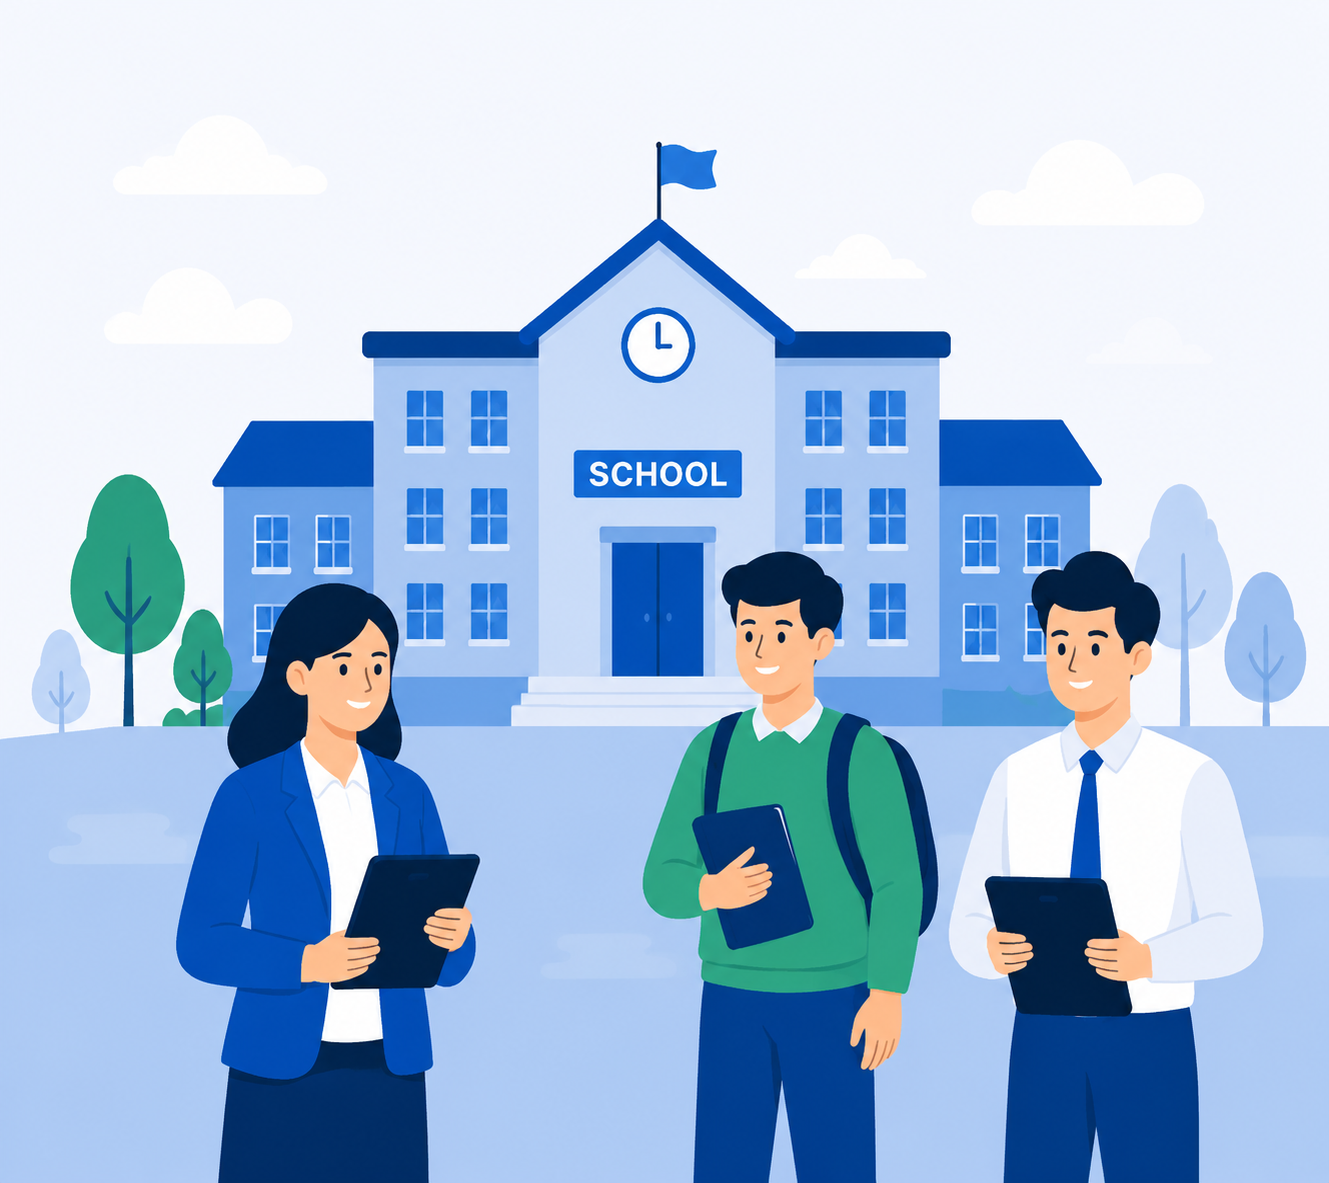
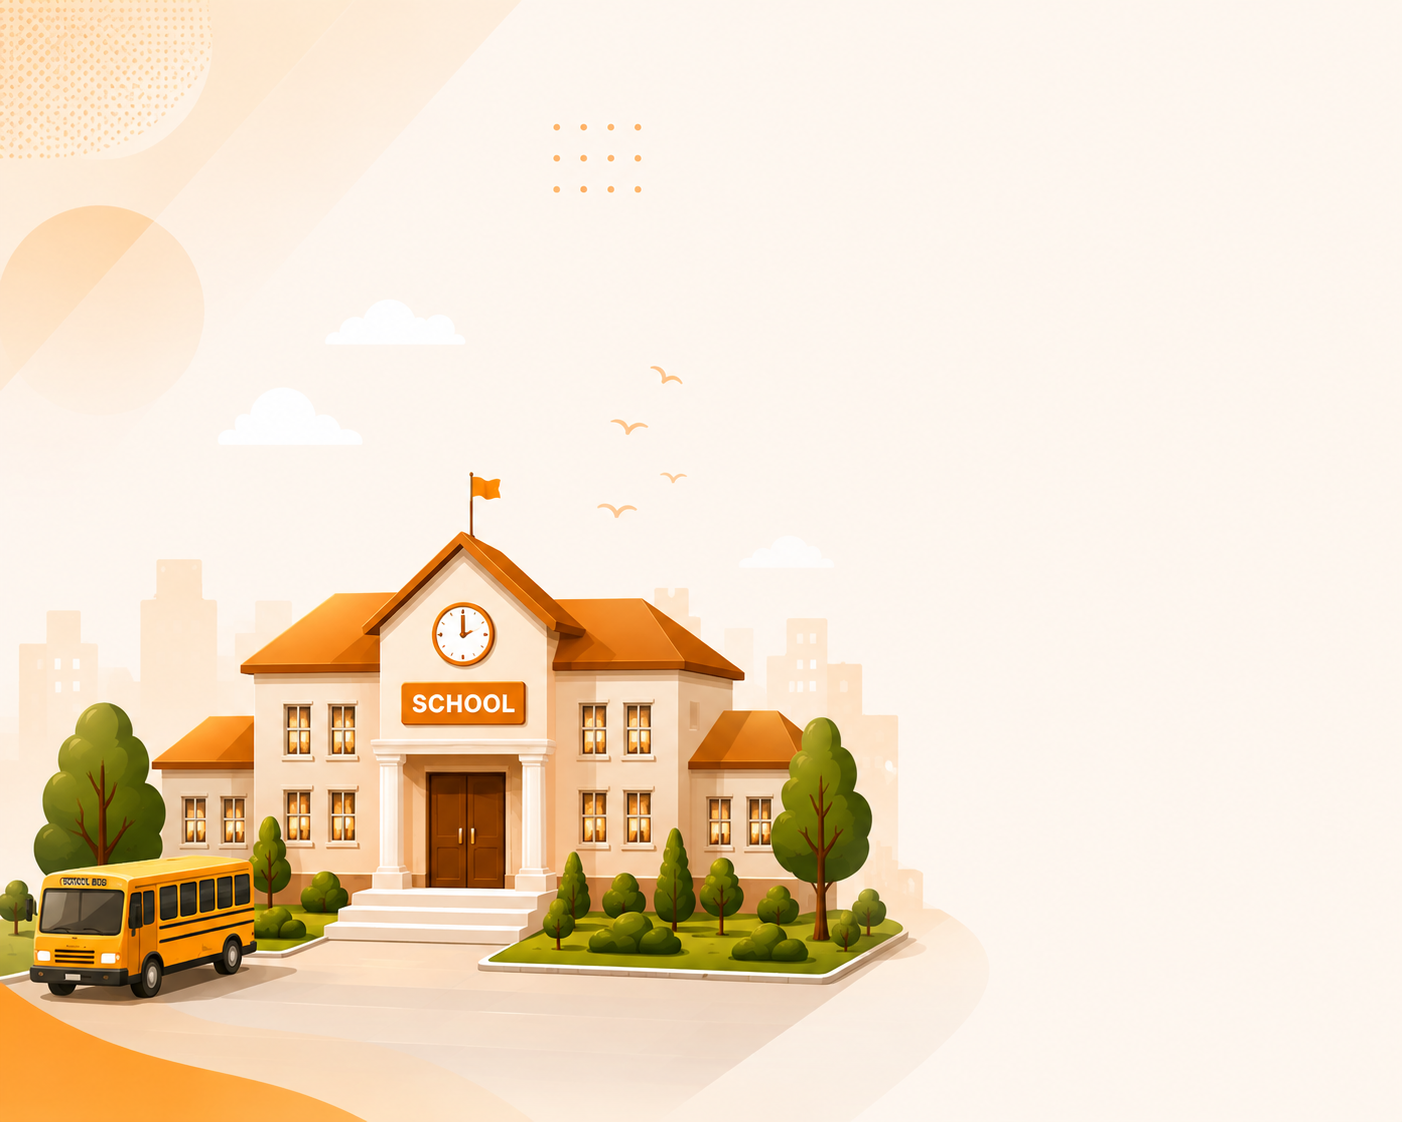
Made login page fully responsive

diff --git a/frontend/src/pages/auth/Login.jsx b/frontend/src/pages/auth/Login.jsx
@@ -44,88 +44,100 @@ export default function Login() {
   };
 
   return (
-    <div className=" h-screen w-full flex">
+    <div className=" h-screen w-full flex  justify-center">
       <LeftSide />
-
-      <div className="w-[70%] p-5 flex flex-col items-center">
-        <div className="bg-blue-50 w-12 h-12 flex items-center justify-center rounded">
-          <i className="fa-solid fa-lock text-2xl text-blue-600"></i>
+      <div className="w-[85%] h-screen p-8 flex flex-col items-center sm:w-full sm:h-screen sm:justify-center ">
+        <div className="bg-amber-100 w-12 h-12 flex items-center justify-center rounded p-3 border border-amber-300 sm:block  sm:items-center sm:justify-center">
+          <i className="fa-solid fa-lock text-2xl text-amber-600"></i>
         </div>
         <div className="flex flex-col items-center ">
-          <h1 className="text-2xl font-bold mt-2">Welcome Back!</h1>
-          <p className="text-gray-800"> Log in to your account to continue</p>
+          <h1 className="text-3xl font-bold mt-2">Welcome Back!</h1>
+          <p className="text-gray-800 text-xl mt-2">
+            {" "}
+            Log in to your account to continue
+          </p>
         </div>
 
-        <form className="w-[90%] h-full " onSubmit={formSubmit}>
-          <div className="flex flex-col items-center gap-4 mt-3">
-            <p className="font-semibold">Select Your Role</p>
-            <div className="flex gap-5">
+        <form
+          className="w-full h-full sm:w-[80%] sm:h-full  "
+          onSubmit={formSubmit}
+        >
+          <div className="flex flex-col items-center gap-4 mt-3   ">
+            <p className="font-semibold mt-10">Select Your Role</p>
+            <div className="flex gap-5 w-full md:justify-center ">
               <button
                 type="button"
                 onClick={() => selectRoleUser("Admin")}
-                className={` ${selectedRole === "Admin" ? "border-blue-700" : "border-gray-300"} flex flex-col justify-center items-center bg-blue-50 rounded  border  w-42 h-32 gap-1`}
+                className={` ${selectedRole === "Admin" ? "bg-amber-50 border-amber-600" : "border-zinc-300"} flex flex-col justify-center items-center  rounded  border  w-42 h-32 gap-1`}
               >
-                <i className="fa-solid fa-user-tie text-3xl text-blue-600"></i>
+                <i className="fa-solid fa-user-tie text-3xl text-amber-600"></i>
                 <p className="font-bold">Admin</p>
                 <p>Full Access</p>
               </button>
               <button
                 type="button"
                 onClick={() => selectRoleUser("Teacher")}
-                className={` ${selectedRole === "Teacher" ? "border-green-700" : "border-gray-300"} flex flex-col justify-center items-center bg-blue-50 rounded  border  w-42 h-32 gap-1`}
+                className={` ${selectedRole === "Teacher" ? "bg-amber-50 border-amber-600" : "border-zinc-300"} flex flex-col justify-center items-center rounded  border  w-42 h-32 gap-1`}
               >
-                <i className="fa-solid fa-person-chalkboard text-3xl text-green-700"></i>
+                <i className="fa-solid fa-person-chalkboard text-3xl text-amber-700"></i>
                 <p className="font-bold">Teacher</p>
                 <p>Manage Classes</p>
               </button>
               <button
                 type="button"
                 onClick={() => selectRoleUser("Student")}
-                className={`${selectedRole == "Student" ? "border-purple-700" : "border-gray-300"} flex flex-col justify-center items-center bg-blue-50 rounded  border w-42 h-32 gap-1  `}
+                className={`${selectedRole == "Student" ? "bg-amber-50 border-amber-600" : "border-gray-300"}
+                 flex flex-col justify-center items-center  rounded  border w-42 h-32 gap-1  `}
               >
-                <i className="fa-solid fa-user-graduate text-3xl text-purple-700"></i>
+                <i className="fa-solid fa-user-graduate text-3xl text-amber-700"></i>
                 <p className="font-bold">Student</p>
                 <p>View & Learn</p>
               </button>
             </div>
-            <p className="text-green-700 font-semibold">
-              <i className="fa-regular fa-circle-check font-semibold"></i>{" "}
+            <p className="text-[#1A2332] font-semibold">
+              <i className="fa-regular fa-circle-check font-semibold text-amber-700"></i>{" "}
               {selectedRole} Role Selected
             </p>
           </div>
 
-          <div className=" h-24 mt-10 w-full">
+          <div className=" h-24 mt-10 w-full ">
             <label htmlFor="email" className="font-semibold">
               Email Address
             </label>{" "}
             <br />
-            <input
-              type="email"
-              name="email"
-              id="email"
-              className="w-full h-12 outline rounded px-4"
-              value={formData.email}
-              onChange={handleForm}
-            />
+            <div className="flex items-center justify-between  h-12 w-full border rounded mt-3">
+              <i className="fa-regular fa-envelope px-4"></i>
+              <input
+                type="email"
+                name="email"
+                id="email"
+                className="w-full h-11 focus:outline-none rounded px-4"
+                value={formData.email}
+                onChange={handleForm}
+              />
+            </div>
           </div>
-          <div className=" h-24 mt-3">
+          <div className=" h-24 mt-6">
             <label htmlFor="password" className="font-semibold">
               Password
             </label>{" "}
             <br />
-            <input
-              type="password"
-              name="password"
-              id="password"
-              className="w-full h-12 outline rounded px-4"
-              value={formData.password}
-              onChange={handleForm}
-            />
+            <div className="w-full h-12 outline rounded px-4 flex items-center justify-between  gap-2 mt-3">
+              <i className="fa-solid fa-lock "></i>
+              <input
+                type="password"
+                name="password"
+                id="password"
+                className="w-full h-full   px-4 focus:outline-none"
+                value={formData.password}
+                onChange={handleForm}
+              />
+            </div>
           </div>
-          <div className="w-full">
+          <div className="w-full mt-12">
             <button
               type="submit"
-              className="bg-blue-600 text-white w-full h-12 rounded flex gap-2 justify-center items-center"
+              className="bg-amber-600 text-white w-full h-12 rounded flex gap-2 justify-center items-center"
             >
               <i className="fa-solid fa-right-to-bracket"></i>
               Login
@@ -138,6 +150,12 @@ export default function Login() {
               <p>{msg} </p>
             </div>
           )}
+        </p>
+        <p className="font-medium">
+          Don't have an account ?{" "}
+          <span className="text-amber-600 font-medium">
+            Contact your administrator
+          </span>
         </p>
       </div>
     </div>

diff --git a/frontend/src/components/auth/LeftSide.jsx b/frontend/src/components/auth/LeftSide.jsx
@@ -2,12 +2,17 @@ import React from "react";
 
 export default function LeftSide() {
   return (
-    <div className="w-[30%] sm:block hidden">
-      <div className="p-8">
-        <div className="flex gap-5">
-          <img src="/images/logo.png" alt="" className=" w-12" />
+    <div
+      className="w-[40%] sm:block md:hidden   hidden bg-cover bg-no-repeat bg-center h-screen items-center justify-center xl:block"
+      style={{
+        backgroundImage: "url('/images/leftSchool.png') ",
+      }}
+    >
+      <div className="px-8 py-2 z-10">
+        <div className="flex gap-5 items-center">
+          <img src="/images/logo.png" alt="" className=" w-16" />
           <div>
-            <h1 className="text-blue-600 text-lg font-bold">DZINNR SMS</h1>
+            <h1 className="text-amber-600 text-lg font-bold">DZINNR SMS</h1>
             <p className="text-gray-600 text-[12px]">
               School Management System
             </p>
@@ -16,7 +21,7 @@ export default function LeftSide() {
         <div className="mt-4 ">
           <h1 className="font-bold text-4xl">Smart School.</h1>
           <h1 className="font-bold text-4xl">
-            Better <span className="text-blue-600">Future.</span>
+            Better <span className="text-amber-600">Future.</span>
           </h1>
           <p className="mt-1">
             Manage students, teachers, classes, attendance, exams and more – all
@@ -24,21 +29,20 @@ export default function LeftSide() {
           </p>
         </div>
         <div>
-          <div className="flex items-center gap-4 mt-4">
-            <div className="bg-blue-50 p-4 rounded-full">
-              <i className="fa-regular fa-user text-blue-600 text-2xl"></i>
+          <div className="flex items-center gap-4 mt-5 bg-white w-[70%] p-2 rounded border border-zinc-400">
+            <div className="bg-amber-100 p-4 rounded-full">
+              <i className="fa-regular fa-user text-amber-600 text-2xl"></i>
             </div>
 
             <div>
-              {" "}
               <h4 className="font-bold">Role Based Access</h4>
               <p>Separate dashboards for Admin, Teachers and Students.</p>
             </div>
           </div>
 
-          <div className="flex items-center gap-4 mt-6">
-            <div className="bg-blue-50 p-4 rounded-full">
-              <i className="fa-solid fa-shield  text-blue-600 text-2xl"></i>
+          <div className="flex items-center gap-4 mt-2  bg-white w-[70%] p-2 rounded border border-zinc-400">
+            <div className="bg-amber-100 p-4 rounded-full">
+              <i className="fa-solid fa-shield  text-amber-600 text-2xl"></i>
             </div>
 
             <div>
@@ -46,9 +50,9 @@ export default function LeftSide() {
               <p>Your data is safe with us using modern authentication.</p>
             </div>
           </div>
-          <div className="flex items-center gap-4 mt-7">
-            <div className="bg-blue-50 p-4 rounded-full">
-              <i className="fa-solid fa-chart-simple  text-blue-600 text-2xl"></i>
+          <div className="flex items-center gap-4 mt-2  bg-white w-[70%] p-2 rounded border border-zinc-400">
+            <div className="bg-amber-100 p-4 rounded-full">
+              <i className="fa-solid fa-chart-simple  text-amber-600 text-2xl"></i>
             </div>
             <div>
               <h4 className="font-bold">Everything Organized</h4>
@@ -56,13 +60,6 @@ export default function LeftSide() {
             </div>
           </div>
         </div>
-      </div>
-      <div className="w-full h-92 bg-amber-300">
-        <img
-          src="/images/school.png"
-          alt=""
-          className="object-cover w-full h-full "
-        />
       </div>
     </div>
   );

diff --git a/frontend/src/index.css b/frontend/src/index.css
@@ -2,3 +2,10 @@
 body {
   font-family: "Inter", sans-serif;
 }
+
+input:-webkit-autofill,
+input:-webkit-autofill:hover,
+input:-webkit-autofill:focus {
+  -webkit-box-shadow: 0 0 0px 1000px white inset !important;
+  -webkit-text-fill-color: black !important;
+}
